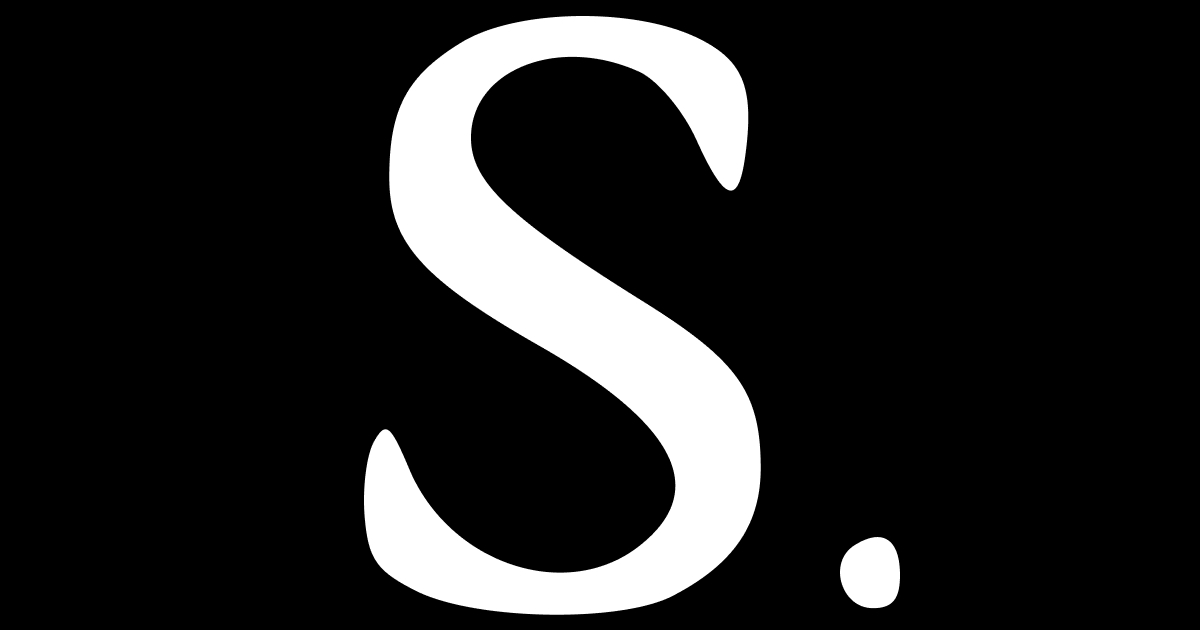
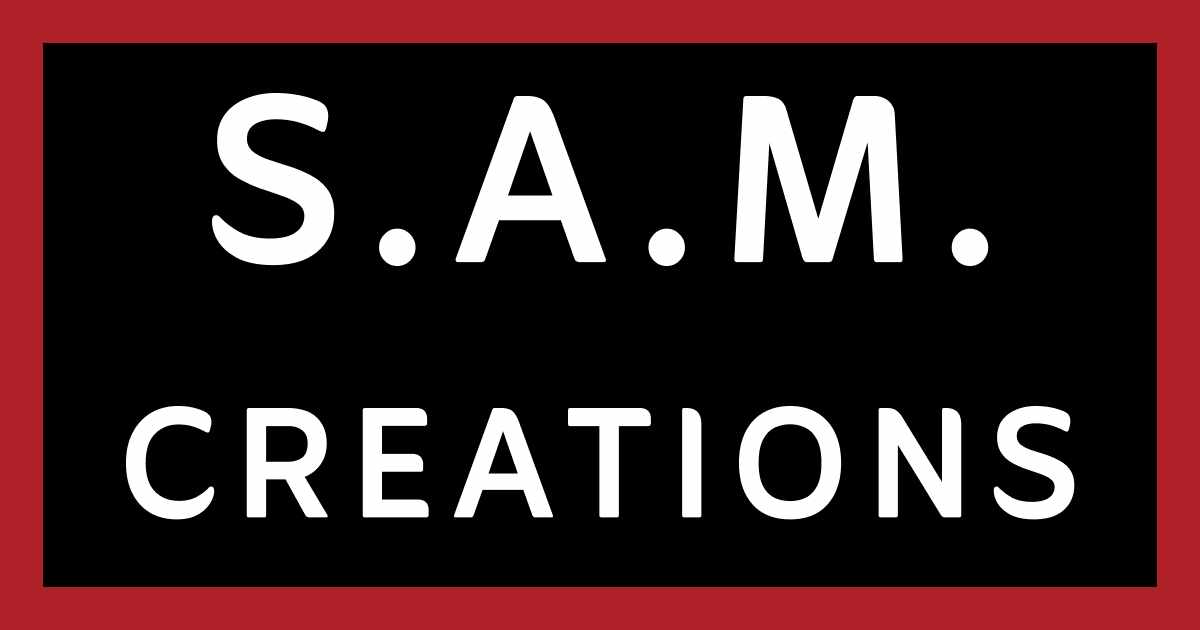
SEO: meta-data added home page text expanded

diff --git a/src/app/page.jsx b/src/app/page.jsx
@@ -52,7 +52,7 @@ function Clients() {
             role="list"
             className="my-10 grid grid-cols-2 items-center gap-x-8 gap-y-10 lg:grid-cols-3 justify-center"
           >
-             
+
 
             {clients.map(([client, logo]) => (
               <li key={client} className="flex items-center justify-center">
@@ -264,17 +264,20 @@ export default async function Home() {
           <p className="mt-6 text-xl text-neutral-600">
             We are{' '}
             <span className="font-semibold text-red-700">
-              S.A.M. Creations Ltd
+              S.A.M. Creations
             </span>{' '}
             — experts in <span className="font-bold">Sampling</span>,{' '}
-            <span className="font-bold">Alterations </span> and{' '}
-            <span className="font-bold">Manufacturing</span> for the fashion
-            industry. Based in South East London, we collaborate with{' '}
+            <span className="font-bold">Alterations</span>, and{' '}
+            <span className="font-bold">Manufacturing</span>. Based in South East London,
+            we collaborate with{' '}
             <span className="font-bold">fashion houses</span>,{' '}
             <span className="font-bold">emerging designers</span>, and{' '}
-            <span className="font-bold">the wider community</span> to bring your
-            visions to life with uncompromising quality and craftsmanship since
-            2015.
+            <span className="font-bold">businesses across the garment and textile industries</span>.
+            We also proudly serve{' '}
+            <span className="font-bold">the wider community</span> through our professional
+            alterations service, helping individuals look and feel their best. Every piece
+            we create reflects our commitment to precision, quality, and craftsmanship
+            since 2015.
           </p>
         </FadeIn>
       </Container>
@@ -297,7 +300,7 @@ export default async function Home() {
 
       <Services />
 
-    <SoftGoodsShowcase/>
+      <SoftGoodsShowcase />
 
       <ContactSection />
     </>

diff --git a/src/app/about/page.jsx b/src/app/about/page.jsx
@@ -158,15 +158,18 @@ export const metadata = {
   title: 'About Us',
   description:
     'Founded in 2015, S.A.M. Creations is a London family business with over 20 years of tailoring expertise in CMT, sampling, alterations and garment manufacturing.',
+  alternates: {
+    canonical: 'https://samcreations.uk/about',
+  },
   keywords: [
-  'S.A.M. Creations London',
-  'experienced garment makers',
-  'family tailoring studio',
-  'London garment specialists',
-  'fashion production experience',
-  'tailoring expertise UK',
-  'garment manufacturing background',
-],
+    'S.A.M. Creations London',
+    'experienced garment makers',
+    'family tailoring studio',
+    'London garment specialists',
+    'fashion production experience',
+    'tailoring expertise UK',
+    'garment manufacturing background',
+  ],
 }
 
 

diff --git a/src/app/layout.jsx b/src/app/layout.jsx
@@ -10,7 +10,7 @@ export const metadata = {
   },
   description:
     'Award-winning London tailoring and garment manufacturing studio specialising in CMT, sampling, alterations and full-scale production for designers and brands.',
-    keywords: [
+  keywords: [
     'garment manufacturer London',
     'CMT studio London',
     'clothing production UK',
@@ -19,7 +19,9 @@ export const metadata = {
     'garment manufacturing services',
     'London garment production',
   ],
-  alternates: { canonical: '/' },
+  alternates: {
+    canonical: 'https://samcreations.uk',
+  },
   robots: { index: true, follow: true },
   openGraph: {
     type: 'website',

diff --git a/src/app/work/page.jsx b/src/app/work/page.jsx
@@ -134,7 +134,10 @@ export const metadata = {
   title: 'Our Work',
   description:
     'See select projects and achievements by S.A.M. Creations delivering CMT, sampling, alterations and garment production for designers retailers and global brands.',
-    keywords: [
+  alternates: {
+    canonical: 'https://samcreations.uk/work',
+  },
+  keywords: [
     'garment manufacturing projects',
     'CMT case studies London',
     'designer garment production',

diff --git a/src/app/gallery/page.jsx b/src/app/gallery/page.jsx
@@ -8,6 +8,9 @@ export const metadata = {
   title: 'Gallery',
   description:
     'Explore garments and projects from S.A.M. Creations’ London studio, showcasing expert tailoring, CMT, sampling and precision garment manufacturing.',
+  alternates: {
+    canonical: 'https://samcreations.uk/gallery',
+  },
   keywords: [
     'garment gallery London',
     'fashion manufacturing showcase',

diff --git a/src/app/process/page.jsx b/src/app/process/page.jsx
@@ -254,6 +254,9 @@ export const metadata = {
   title: 'Our Process',
   description:
     'From first sample to final production, discover how S.A.M. Creations manages every stage of garment manufacturing in London with precision and reliability.',
+  alternates: {
+    canonical: 'https://samcreations.uk/process',
+  },
   keywords: [
     'CMT production process',
     'garment manufacturing workflow',

diff --git a/src/app/contact/page.jsx b/src/app/contact/page.jsx
@@ -161,6 +161,7 @@ function ContactDetails() {
   )
 }
 
+
 export default function Contact() {
   return (
     <>